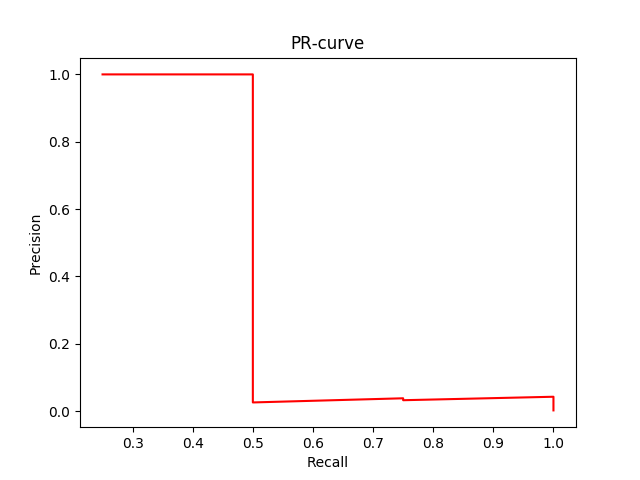
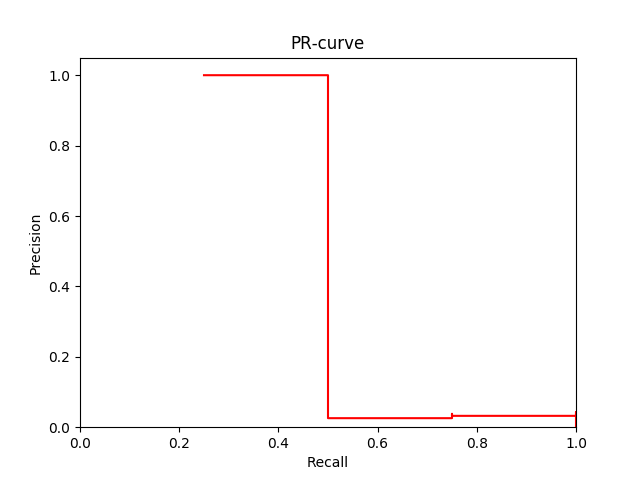
fixed PRcurve

diff --git a/Content_based_image_retrieval/PRcurve.py b/Content_based_image_retrieval/PRcurve.py
@@ -50,7 +50,7 @@ def PRcurve(imgs_paths, imgs_color_hists, query_color_hist, topk, query_ground_t
     for idx in tp_idx:
         tp[idx:] += 1
 
-    sample_size = np.arange(1, topk+1)       # vector containing values for each cutoff
+    sample_size = np.arange(1, topk+1)       # vector containing values for each cutoff, except 0 for which precision is not well defined 
 
     fp = false_positives(sample_size, tp)
     fn = false_negatives(gt_size, tp)
@@ -97,10 +97,12 @@ if __name__ == "__main__":
     query_PR_curves = [PRcurve(imgs_paths, imgs_color_hists, query, topk, gt) for query, gt in zip(query_color_hists, imgs_ground_truth_paths)]
 
     for i, curve in enumerate(query_PR_curves):
-        plt.plot(curve[:, 0], curve[:, 1], color='r')
+        plt.step(curve[:, 0], curve[:, 1], color='r', where='post')
         plt.title('PR-curve')
         plt.xlabel('Recall')
         plt.ylabel('Precision')
+        plt.ylim([0.0, 1.05])
+        plt.xlim([0.0, 1.0])
         plt.savefig(f'{output_img_folder}/pr_curve_query_{i+1}')
 
         # flush plot
